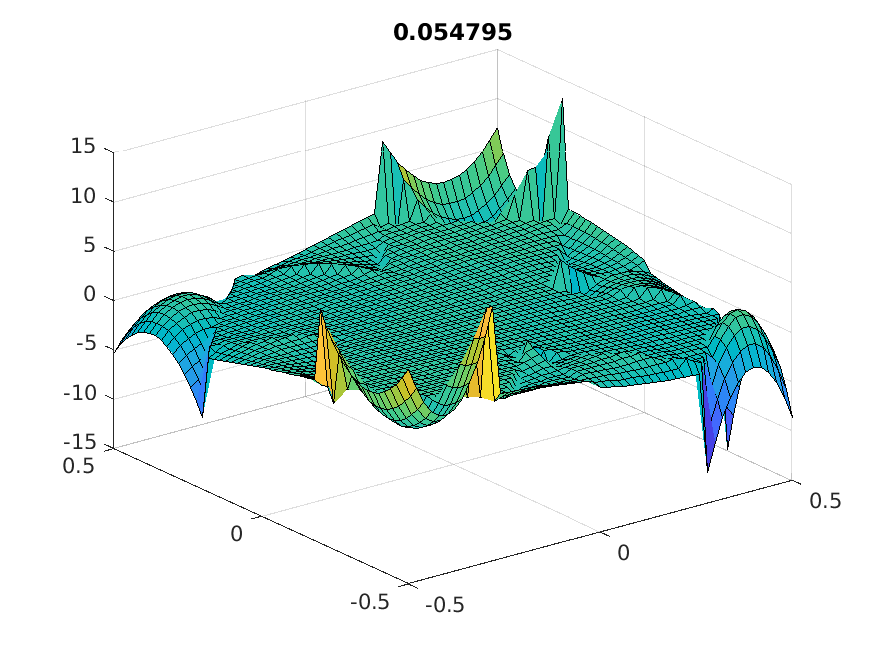
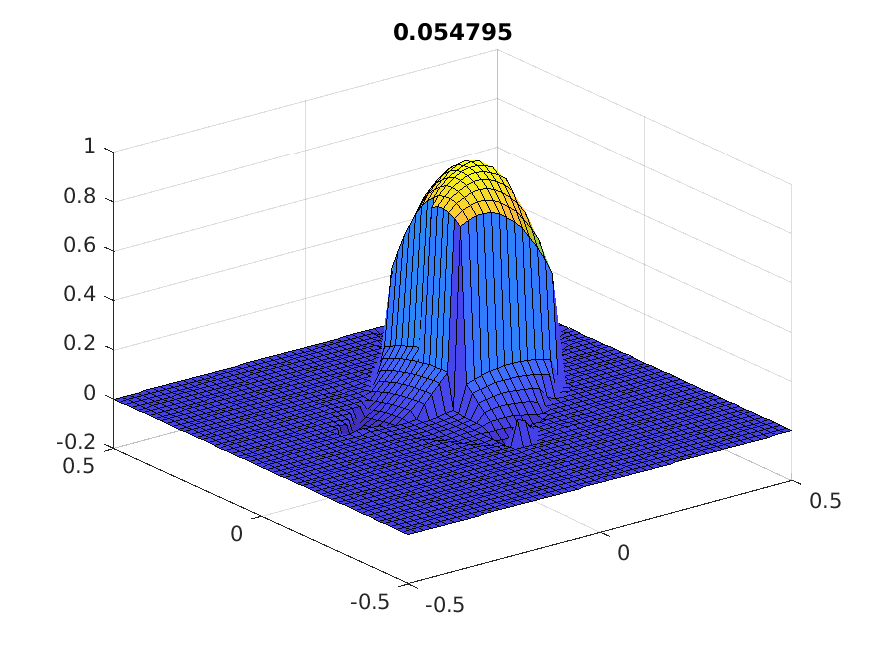
fixed bug in S_ikPlus

diff --git a/Codes1.1/Codes3D/tests/test.m b/Codes1.1/Codes3D/tests/test.m
@@ -15,9 +15,9 @@ N = 2;
 StartUp3D;
 
 % Source function
-%source = @(t) sin(2*pi*t);
+source = @(t) sin(4*pi*t);
 %source = @(t) 0.2 * exp(-5*(t-1).^2).*sin(4*pi*t);
-source = @(t) 0;
+%source = @(t) 0;
 source_coordinates = [0,0,0];
 
 %sample node over time
@@ -29,8 +29,8 @@ FinalTime = 1;
 % zero initial condition 
 Hx = zeros(Np, K); Hy = zeros(Np, K); Hz = zeros(Np, K);
 Ex = zeros(Np, K); Ey = zeros(Np, K); Ez = zeros(Np, K);
-xmode = 1; ymode = 1; 
-Ez = sin(xmode*pi*x).*sin(ymode*pi*y);
+%xmode = 1; ymode = 1; 
+%Ez = sin(xmode*pi*x).*sin(ymode*pi*y);
 
 % node_source = findNearestNode(source_coordinates);
 % Ez(:,node_source(2)) = 1;
@@ -67,8 +67,8 @@ Ex = zeros(Np, K); Ey = zeros(Np, K); Ez = zeros(Np, K);
 %node_source = findNearestNode(source_coordinates);
 %Ez(:,node_source(2)) = 1;
 % mode
-xmode = 1; ymode = 1; 
-Ez = sin(xmode*pi*x).*sin(ymode*pi*y);
+%xmode = 1; ymode = 1; 
+%Ez = sin(xmode*pi*x).*sin(ymode*pi*y);
 
 [Hx,Hy,Hz,Ex,Ey,Ez] = Maxwell3DMat(Hx,Hy,Hz,Ex,Ey,Ez,FinalTime,source,source_coordinates);
 

diff --git a/Codes1.1/Codes3D/tests/test_fluxes.m b/Codes1.1/Codes3D/tests/test_fluxes.m
@@ -2,15 +2,23 @@
 
 Globals3D; 
 N = 1;
-[Nv, VX, VY, VZ, K, EToV] = MeshReaderGambit3D('cubeK86.neu');
+[Nv, VX, VY, VZ, K, EToV] = MeshReaderGambit3D('cubeK5.neu');
 StartUp3D;
 
-Ex = sin(1*pi*x).*sin(1*pi*y);
-Ey = sin(2*pi*x).*sin(2*pi*y);
-Ez = sin(3*pi*x).*sin(3*pi*y);
-Hx = sin(4*pi*x).*sin(4*pi*y);
-Hy = sin(5*pi*x).*sin(5*pi*y);
-Hz = sin(6*pi*x).*sin(6*pi*y);
+% Ex = sin(1*pi*x).*sin(1*pi*y);
+% Ey = sin(2*pi*x).*sin(2*pi*y);
+% Ez = sin(3*pi*x).*sin(3*pi*y);
+% Hx = sin(4*pi*x).*sin(4*pi*y);
+% Hy = sin(5*pi*x).*sin(5*pi*y);
+% Hz = sin(6*pi*x).*sin(6*pi*y);
+
+Ex = x;
+Ey = y;
+Ez = z;
+Hx = 2.*x;
+Hy = 2.*y;
+Hz = 2.*z;
+
 U = FieldsToU(Hx, Hy, Hz, Ex, Ey, Ez);
 
 %% Flux from Maxwell3D

diff --git a/Codes1.1/Codes3D/Maxwell3DPointSource.m b/Codes1.1/Codes3D/Maxwell3DPointSource.m
@@ -41,7 +41,7 @@ while (time<FinalTime) % outer time step loop
   for INTRK = 1:5   % inner multi-stage Runge-Kutta loop
     
     % compute right hand side of TM-mode Maxwell's equations
-    [rhsHx, rhsHy, rhsHz, rhsEx, rhsEy, rhsEz] = MaxwellRHS3DTest(Hx,Hy,Hz,Ex,Ey,Ez);
+    [rhsHx, rhsHy, rhsHz, rhsEx, rhsEy, rhsEz] = MaxwellRHS3D(Hx,Hy,Hz,Ex,Ey,Ez);
     
     % initiate, increment Runge-Kutta residuals and update fields
     resHx = rk4a(INTRK)*resHx + dt*rhsHx;   Hx = Hx+rk4b(INTRK)*resHx;  	

diff --git a/Codes1.1/Codes3D/S_ikPlusLawson.m b/Codes1.1/Codes3D/S_ikPlusLawson.m
@@ -42,7 +42,7 @@ for j = 1:Nfp
        %l in element k
        [~, l2] = ismember(nodes_k_minus(l), nodes_i_plus);
        
-       F(Fmask(j,face_i), Fmask(l,face_i)) = -0.5 * massFace(j, l2);
+       F(Fmask(j,face_i), Fmask(l,face_i)) = 0.5 * massFace(j, l2);
    end
 end
 
